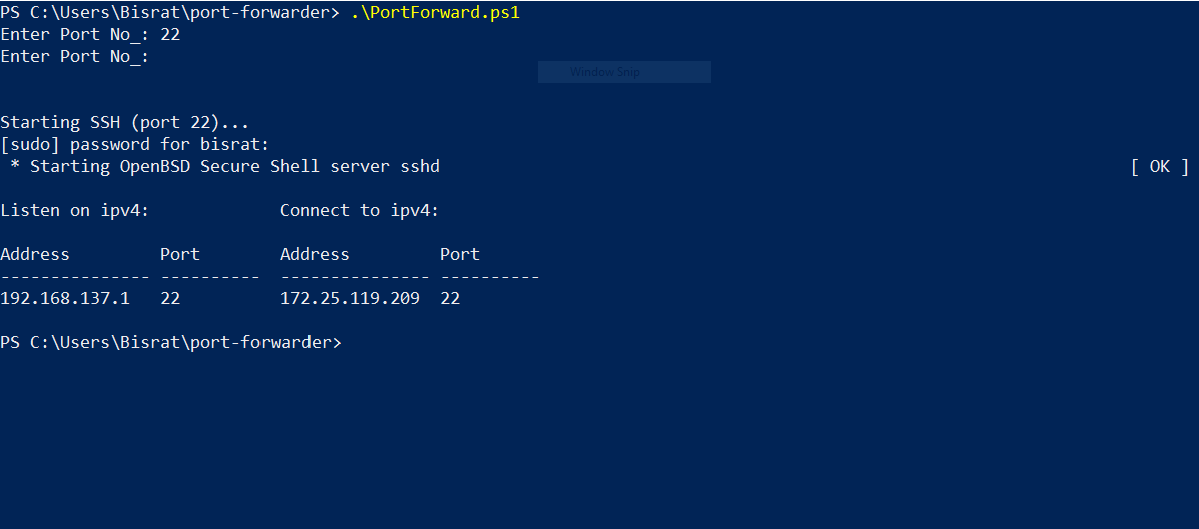
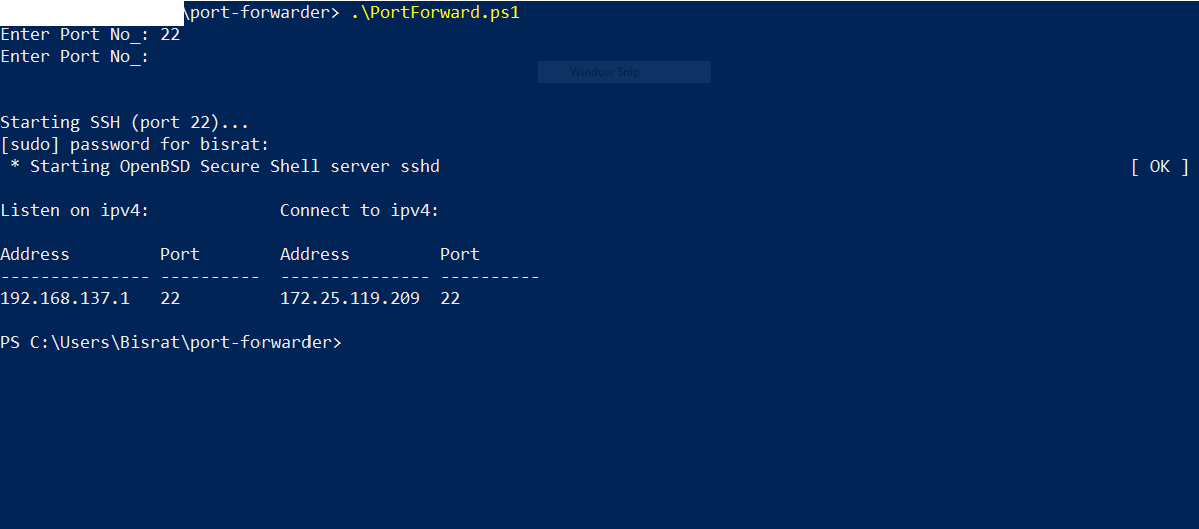
hidden the directory on the picture

Changed region(s): [[0.0, 0.0, 0.1543, 0.0605]]

diff --git a/README.md b/README.md
@@ -1,3 +1,6 @@
 # port-forwarder
 PortForward.ps1 script works only in the presence of a WSL virtual machine like Ubuntu. It forwards ports on the host machine to the vm so if any connections are required from a LAN (Local Area Network) using the specific ports on the host machine, tihs script makes sure it does connect those ports to to VM.
+
+**After finishing the forwarding task**
 ![Finished Forwarding](/PIC1.png)
+
